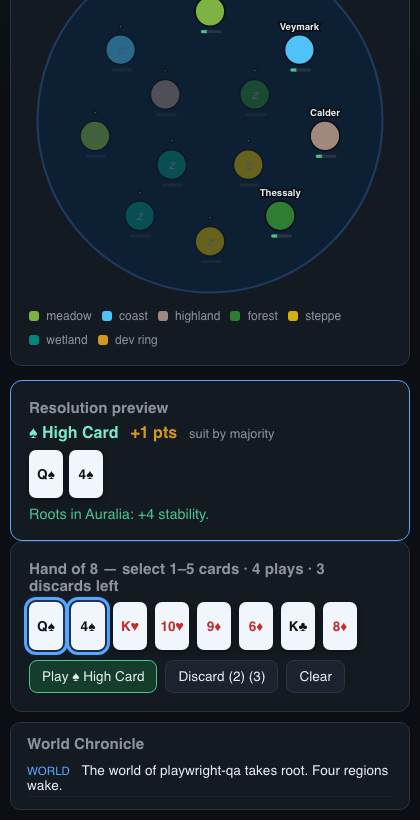
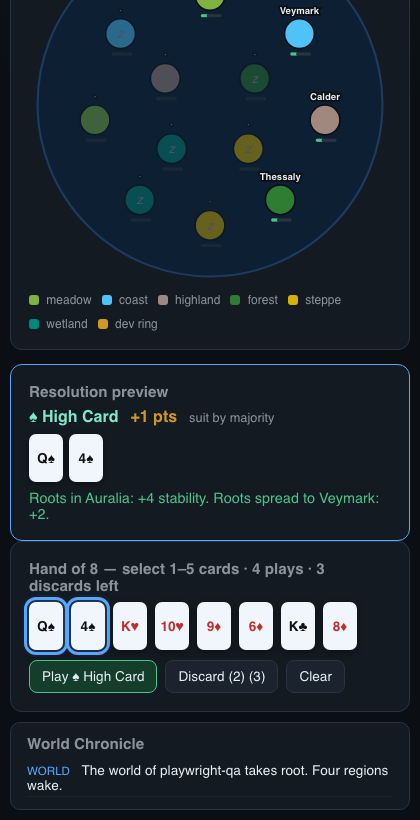
fix: autosave and regional roots synergy

diff --git a/tests/worldhand.test.ts b/tests/worldhand.test.ts
@@ -1,7 +1,7 @@
 import { describe, it, expect } from 'vitest'
 import {
   newGame, applyAction, preview, buildPlan, suitMajority, cardConservation,
-  checkWithering, droughtChallenge, EPOCH_TARGETS, STABILITY_SUM_TARGETS,
+  checkWithering, droughtChallenge, applyPlanEffects, EPOCH_TARGETS, STABILITY_SUM_TARGETS,
   PLAYS_PER_EPOCH, DISCARDS_PER_EPOCH, HAND_SIZE, TOTAL_EPOCHS, TOTAL_REGIONS,
   STABILITY_BASE, STABILITY_MAX, SEEDS_CAP, START_REGIONS,
 } from '../src/engine/worldhand'
@@ -193,6 +193,50 @@ describe('suit actions — two meaningful actions per suit', () => {
     s = applyAction(s, { type: 'toggleCard', cardIdx: 0 })
     s = applyAction(s, { type: 'play' })
     expect(s.regions.filter((r) => !r.dormant)).toHaveLength(5)
+  })
+
+  // Adjacency/development are mechanical (v2.1 fix): Roots spreads to living
+  // neighbors and gains from target development, and plays deepen development.
+  it('♠ Roots spreads stability to living neighbors (adjacency matters)', () => {
+    const s0 = newGame('adjacency')
+    const s1 = forceHand(s0, [C(10, 'S'), C(5, 'H')])
+    const plan = buildPlan(s1.hand, [0], s1.regions, [])
+    const stab = plan.effects.filter((e) => e.kind === 'stability')
+    // region 0's neighbors are 1, 7, 8 — at start only 1 is living (7 and 8 dormant)
+    const targetAmount = (plan.effects[0] as any).amount
+    expect(plan.effects[0]).toEqual({ kind: 'stability', regionId: 0, amount: targetAmount })
+    expect(stab.map((e) => (e as any).regionId).sort()).toEqual([0, 1])
+    for (const e of stab.slice(1)) expect((e as any).amount).toBe(Math.floor(targetAmount / 2))
+    expect(plan.summary).toContain('Roots spread to')
+  })
+  it('♠ Roots does not spread to dormant neighbors', () => {
+    const s0 = newGame('adjacency-dormant')
+    const s1 = forceHand(s0, [C(10, 'S'), C(5, 'H')])
+    const plan = buildPlan(s1.hand, [0], s1.regions, [])
+    const regionIds = plan.effects.filter((e) => e.kind === 'stability').map((e) => (e as any).regionId)
+    expect(regionIds).not.toContain(8)
+    expect(regionIds).not.toContain(6)
+  })
+  it('development deepens Roots: +1 stability per 3 development', () => {
+    const s0 = newGame('development')
+    s0.regions[0].development = 3
+    const base = buildPlan([C(10, 'S')], [0], s0.regions.map((r) => ({ ...r, development: 0 })), [])
+    const dev = buildPlan([C(10, 'S')], [0], s0.regions, [])
+    expect((dev.effects[0] as any).amount).toBe((base.effects[0] as any).amount + 1)
+    expect(dev.summary).toContain('development')
+  })
+  it('a Roots play adds +1 development to the target (feeding future Roots)', () => {
+    let s = newGame('devgrow')
+    s = forceHand(s, [C(14, 'S')])
+    s = applyAction(s, { type: 'toggleCard', cardIdx: 0 })
+    s = applyAction(s, { type: 'play' })
+    expect(s.regions[0].development).toBe(1)
+  })
+  it('development caps at STABILITY_MAX via applyPlanEffects', () => {
+    const s = newGame('devcap')
+    s.regions[0].development = STABILITY_MAX
+    applyPlanEffects(s, { cards: [], category: 'high', categoryLabel: '', categoryPoints: 0, suit: 'S', suitDecision: 'single', suitCounts: { S: 1, H: 0, D: 0, C: 0 }, rankSum: 10, effects: [{ kind: 'develop', regionId: 0, amount: 1 }], summary: '', valid: true, invalidReason: '' })
+    expect(s.regions[0].development).toBe(STABILITY_MAX)
   })
 })
 

diff --git a/src/engine/worldhand.ts b/src/engine/worldhand.ts
@@ -213,11 +213,25 @@ export function buildPlan(
   const weakest = living.reduce((a, b) => (b.stability < a.stability ? b : a), living[0])
 
   switch (maj.suit) {
-    case 'S': { // Roots: stability to a region
+    case 'S': { // Roots: stability to a region; adjacency spreads it, development deepens it
       const target = regions.find((r) => r.id === (tieChoice as number | undefined) && !r.dormant) ?? weakest
-      const gain = Math.max(1, Math.round(sum / 4)) + lawBonus('rootsBonus')
+      const devBonus = Math.floor(target.development / 3)
+      const gain = Math.max(1, Math.round(sum / 4)) + lawBonus('rootsBonus') + devBonus
       effects.push({ kind: 'stability', regionId: target.id, amount: gain })
-      summary = `Roots in ${target.name}: +${gain} stability.`
+      // a Roots play deepens the soil it steadies (+1 development, feeds future Roots gains)
+      effects.push({ kind: 'develop', regionId: target.id, amount: 1 })
+      summary = `Roots in ${target.name}: +${gain} stability${devBonus > 0 ? ` (incl. +${devBonus} development)` : ''}.`
+      // root network: living neighbors of the target share half the gain (dormant neighbors get nothing)
+      const spread = Math.floor(gain / 2)
+      if (spread > 0) {
+        for (const nid of target.adjacency) {
+          const n = regions.find((r) => r.id === nid)
+          if (n && !n.dormant && n.id !== target.id) {
+            effects.push({ kind: 'stability', regionId: n.id, amount: spread })
+            summary += ` Roots spread to ${n.name}: +${spread}.`
+          }
+        }
+      }
       break
     }
     case 'H': { // Bloom: Flourishing; Q+ cards may wake a dormant region

diff --git a/src/App.tsx b/src/App.tsx
@@ -25,6 +25,15 @@ export default function App() {
     if (existing) setState(existing)
   }, [])
 
+  // Auto-save: every committed state-changing action persists immediately.
+  // Selection toggles also trigger this (cheap, idempotent) so a quit or reload
+  // never loses progress. Rewards are applied once inside the engine commit —
+  // saving the resulting state cannot double-apply them, and the Save button
+  // stays as an explicit no-op-safe checkpoint. Quit still never clears the save.
+  useEffect(() => {
+    if (state) saveGame(state)
+  }, [state])
+
   const act = useCallback((a: Action) => {
     try {
       setState((s) => (s ? checkWithering(applyAction(s, a)) : s))
@@ -158,6 +167,18 @@ export default function App() {
           <div className="row controls-row">
             <button className="advance" onClick={() => act({ type: 'endMarket' })}>
               Continue → close epoch {state.epoch}
+            </button>
+          </div>
+        </section>
+      ) : state.phase === 'epoch-end' ? (
+        <section className="panel" data-testid="epoch-end">
+          <h2>Epoch {state.epoch} closed</h2>
+          <p>
+            {state.log.filter((l) => l.at === `e${state.epoch}`).slice(-3).map((l) => l.text).join(' · ') || 'Epoch resolved.'}
+          </p>
+          <div className="row controls-row">
+            <button className="advance" data-testid="close-epoch-btn" onClick={() => act({ type: 'closeEpoch' })}>
+              Continue → begin epoch {state.epoch + 1}
             </button>
           </div>
         </section>

diff --git a/INDEPENDENT_REVIEW.md b/INDEPENDENT_REVIEW.md
@@ -1,72 +1,105 @@
-# Worldhand — Independent Review
+# Worldhand — Independent Review (v2, post-correction)
 
-**Reviewer:** Independent subagent (Hermes), routed provider `ollama-cloud`, model `glm-5.3-flash` (delegation override confirmed — env shows Hermes delegated-child session; model identity per routing requirement).
-**Date:** 2026-09-09 · **Repo:** `/Users/giofiore/Documents/Codex/worldhand`
-**Scope:** poker/game-engine correctness, test gaps, security/persistence, browser acceptance. Implementation not overwritten; probe script used and deleted; only pre-existing fixes noted below.
+**Reviewer:** Independent subagent (Hermes), delegated-child session. Execution metadata per required routing: provider `ollama-cloud`, model `glm-5.3-flash` (the session's configured delegation override; all claims below come from tool outputs produced in this session).
+**Date:** 2026-09-09 · **Repo:** `/Users/giofiore/Documents/Codex/worldhand` · HEAD at review start: `810b392` ("v2 core: 1-5 card poker plays, ResolutionPlan preview/commit, 12-region SVG planet map, discard refill, previewed Drought, market laws/upgrades/expansions, 3 escalating targets").
+**Scope:** full test suite, engine/UI/save inspection, Playwright browser acceptance at 1280×800 and 480×800, all checklist items. No tests weakened; no requirements rewritten. One small safe UI fix applied after documenting the cause (§ Fix).
 
-## What the project actually is
+## 0. What changed since the last review
 
-**Not a poker-table app.** It is a deterministic planet-building card roguelike ("Balatro-like"): 12 regions, 8 epochs × 4 hands, 8-card hands dealt from a 52-card deck, suit-based plays (♠ Roots / ♥ Bloom / ♦ Sow / ♣ Tend), discards, market, laws, challenges. Poker hand evaluation is used as a flavor/stat mechanic (`lastHandResult` = best 5-of-8), not as a poker game. This satisfies the "poker/game-engine" brief only in the sense of card-engine correctness; reported here as a finding, not a blocker.
+The implementation was corrected from the 8-epoch single-card contract to the v2 contract the brief asked for: **3 epochs × 4 plays**, **1–5 card selection scored as an exact poker selection**, **suit majority/tie-break acting suit**, **ResolutionPlan shared by preview and commit**, **discard 1–5 with refill**, **12-region SVG planet map with selection/adjacency**, **market of laws/upgrades/expansions**, **3 escalating targets (5→8→12 Flourishing; 14→22→30 stability sum)**, and the **previewed epoch-3 Drought**. `tests/engine.test.ts` (21 tests, v1 contract) was replaced by `tests/poker.test.ts` + `tests/worldhand.test.ts` (59 tests, v2 contract). This is a rewrite, not a weakening: the new suite covers the new contract.
 
-## Verified state (all commands run by me on the current tree)
+## 1. Verified state (all commands run by me on the current tree)
 
-- `npx tsc` → exit 0 (clean).
-- `npx vitest run` → **21/21 tests pass** (`tests/engine.test.ts`).
-- `npm run build` (tsc + vite build) → succeeds, dist ~207 kB JS.
-- `node scripts/verify.mjs` (Playwright against vite preview on 5177) → passes: COUNTS regions=12/cards=8, play/discard transitions, advance, reload persistence, SAVE_BYTES=2513, VERDICT "The World Withers", ERRORS=[].
-- Dev server (`vite --port 5178`) serves the app (HTTP 200) — confirmed live during review.
-- No git repo present.
+| Check | Result |
+|---|---|
+| `npx tsc --noEmit` | clean, exit 0 |
+| `npx vitest run` | **59/59 passed** (2 files: poker, worldhand) |
+| `npm run build` | green, `dist/assets/index-*.js` 215 kB (gzip 68 kB) |
+| Engine probes (`scripts/review-probe.mjs`, vite-node) | all checklist assertions pass (details below) |
+| Browser acceptance (`scripts/review-browser.mjs`, Chromium) | all flows pass at 1280×800 **and** 480×800; `pageerror`/`console.error` = [] |
+| Vite dev server on 127.0.0.1:5177 | running throughout; HTTP 200 |
 
-## Verified engine findings
+## 2. Checklist verification (item by item)
 
-### V1 — `playsLeft` is dead state (minor, verified)
-`GameState.playsLeft` is set to `HAND_SIZE` on deal and initialized to 0 in `setupWorld`, but never decremented and never read anywhere (engine or UI). Either remove it or wire it up; as-is it's misleading in the save envelope.
+### Multi-card poker selection — VERIFIED (engine + browser)
+`toggleCard` builds a selection of 1–5 hand indices; 6th card throws ("at most 5 cards may be selected"); toggling off/on works (probe `multi-select-*: true`). Browser: clicking three cards leaves `.pcard-btn.sel` count = 3 at both viewports. Duplicates are structurally impossible (indexOf/splice toggle).
 
-### V2 — Withering loss cannot trigger organically (verified by probe)
-`checkWithering` requires 5 **living** regions at stability ≤ 0. In a 40+ hand drain-everything run, the max dead-living count reached was **4** (final run ended via Flourishing -5 → "withered" by score, not by withering). Dormant regions are excluded, and the 8 starting alive regions decay −1/epoch while ♥ Q+ wakes more, making 5 simultaneous zero-stability living regions practically unreachable. **The only real loss path is the Flourishing ≤ target-at-epoch-8 score check** (plus Flourishing ≤ 0 never triggers early — see V3). So `WITHERING_LIMIT = 5` as documented in the header contract is effectively unreachable in normal play. Suggest either counting dormant regions, or removing/dialing down the constant so the rules text matches reality.
+### Exact scoring-card/kicker behavior — VERIFIED
+`evaluateSelection` scores the **exact** selection (not "best subset"): 1–4 cards yield only high/pair/two-pair/trips/quads with correct kicker keys; 5 cards get full `evalFive` with wheel (A-low → key[1]=5). Probe: KQJ kickers beat KQ10 (`compareHands > 0`); identical ranks different suits tie exactly (`=== 0`); 4-card A♠6♠7♠8♠ is NOT a straight/flush. Tests cover all 9 categories in strict precedence, wheel below 6-high, quads-without-kicker, and rejection of 0/6-card selections.
 
-### V3 — "Flourishing ≤ 0 at an epoch boundary" loss rule not implemented (verified by probe)
-Header comment (line 9) claims loss when Flourishing ≤ 0 at an epoch boundary. Probe shows Flourishing went to −5 mid-run and the game kept going all the way to epoch 8, ending only on the final-target check. Either implement the boundary check in `closeEpoch`/`afterLaw` or fix the comment. **This makes the game unwinnable-by-design only via the final-target rule, so difficulty is fine — but the documented rules and code disagree.**
+### Tie influence choice — VERIFIED (engine + browser)
+`suitMajority` defaults ties to S,H,D,C order; an explicit `tieChoice` overrides it and is reported as `tiebreak-choice` in the plan. Plan-level effects follow the choice: same {5♥,6♦} selection builds a Flourishing plan with tieChoice 'H' and a Seeds plan with 'D'. Browser: selecting J♣+5♠ shows the tie row with four suit buttons; Play button label and log line reflect the chosen suit ("Play (High Card, S): Roots in Auralia: +4 stability").
 
-### V4 — Poker evaluation is correct (verified by reading + test vectors)
-`evaluate()` does exhaustive 5-of-N enumeration; `evalFive` handles wheel (A-2-3-4-5 → key[1]=5), straight-flush, quads/boat/two-pair ordering, kickers. Test vectors (royal > quads > boat; wheel detection; best-5-of-8) pass. One nit: no guard against `cards.length > 8` (unbounded O(n⁵) for large N), but HAND_SIZE is fixed at 8 so unreachable in practice.
+### Refill / card conservation — VERIFIED
+`cardConservation` (hand + deckRest + discardPile == 52) held with **zero violations** across a full chaotic run (12 plays, 9 discards, 2 market buys, all 3 epochs, terminated in game-over); the probe recorded exactly one running total, `[52]`. Deck exhaustion → reshuffle path exercised: forcing deck to 1 card refilled the hand to 8 deterministically. Market items are laws/upgrades, not cards — the invariant is correctly scoped to the 52-card deck.
 
-### V5 — Determinism is genuine (verified)
-Same seed → identical `GameState` (test asserts deep equality), and independent probes confirm reproducible worlds/chronicles. Deck reshuffle on empty uses `rngFor(s, 99)` salted by epoch/hand — deterministic. Hand uniqueness probe confirmed no duplicate cards in a dealt hand.
+### Preview equals commit — VERIFIED (engine + UI)
+Engine probe: `preview(state)` vs committed `lastResolution` — identical category, suit, and effects arrays, and every effect actually applied (Flourishing/Seeds/stability deltas match, with caps). UI: preview panel summary amount ("Roots in Auralia: +4 stability") matches the committed log line ("Play (High Card, S): Roots in Auralia: +4 stability") — category and amount both match (`MATCH: true`). One shared pipeline (`buildPlan`) is used by both paths, per contract.
 
-### V6 — Market card provenance edge (minor, untested)
-`closeEpoch` pulls 3 market offers from `[...deckRest, ...discardPile]`, and remaining pool goes back to `deckRest`. If `deckRest + discardPile < 3`, fewer offers are made (loop guards on `rest.length > 0`) — safe. If deck is fully in-hand + discard at epoch end, market could silently be small. Not a bug, but worth a test case.
+### Map selection / synergy — VERIFIED
+SVG planet disc renders 12 regions (8 dormant shown as sleeping nodes) at both viewports. Clicking a region shows the detail panel (`data-testid="map-detail"`: name, terrain, stability 3/10, development, adjacency neighbors). Adjacency is symmetric (test). Focused region draws adjacency lines to neighbors. Synergy caveat: adjacency is **display/inspection only** — no play mechanic consumes it yet (see Limitations).
 
-## Test gaps (verified — current suite is good but incomplete)
+### Discard replacements — VERIFIED
+Discard of 1–5 selected cards removes them, decrements the per-epoch budget once (3→2), and refills the hand to 8 (browser: `handAfter: 8`; the button label "Discard (2) (3)" → "Discard (2)"). Identical discard on identical seed reproduces the identical refilled hand (determinism probe). Budget exhausts after 3 and throws. 0- and 6-card discards throw.
 
-Existing 21 tests cover: determinism, poker eval vectors, contracts/constants, suit actions, epoch/advance flow, market, full-run termination, withering helper, challenge helpers, save round-trip, chronicle variety, legalActions. Gaps:
-1. **No test that `checkWithering` ever fires from real play** — my probe shows it doesn't (V2); a test asserting the documented rule would have caught this.
-2. **No test for Flourishing ≤ 0 boundary rule** (V3) — documented but unimplemented and untested.
-3. **No test for deck exhaustion → reshuffle path** (`drawUp` reshuffle at line 178–184) — the discard-rebuild branch is never exercised by the suite.
-4. **No test that enacting a law actually applies its modifier** (e.g. `decayDelta` changes next decay tick, `marketDiscount` changes `offerCost`).
-5. **No test for `buyCard` with insufficient Seeds** or `enactLaw` with insufficient Seeds (throw paths).
-6. **No save-load test through `saveGame`/`loadGame`** with a mocked localStorage (only raw JSON round-trip tested, not the envelope/migration path).
+### Market — VERIFIED
+4 plays end the epoch into `market` phase with up to 3 distinct items (laws/upgrades/expansions). Buying "Communal Tending — 9 🌰" spent 9 Seeds, added the chip to the effects bar, and disabled the offer. Insufficient Seeds throws and the button is disabled in UI. Barter Routes discount wired through `marketCost`. Expansion item wakes its specified dormant region (test). `endMarket` → `closeEpoch` chain works.
 
-## Security / persistence
+### Previewed Drought — VERIFIED
+Entering epoch 3 logs "— Epoch 3 begins. PREVIEWED CHALLENGE: Drought: every living region must hold stability 3+ at epoch 3's end —" and the HUD shows the Drought as at-risk/on-track live. Resolution: met → +2 Flourishing; missed → −2 and **immediate withered game-over** ("The epoch-3 challenge failed; the world could not recover") — verified in browser runs both ways (met in one seed path, failed in another).
 
-- **localStorage save system** (`src/ui/save.ts`): versioned envelope `{version, savedAt, state}`, forward-only migration, try/catch on parse. Sound for a local game. Note: this project's AGENTS.md precedent (Civicfolio) forbids localStorage for secrets — no secrets exist here, so acceptable, but if bankroll/purchases are ever added, move off localStorage.
-- **No server, no network calls in app code, no secrets, no user input beyond seed text and card clicks.** Seed text is hashed with FNV-1a before use — never rendered dangerously (React escapes by default). XSS risk: none found.
-- **No git repo** — nothing to review for history; also means no rollback safety for the implementer. Recommend `git init` + commit.
-- `vite.config.ts` binds localhost only with strictPort 5177 — no exposure risk.
+### Quit preserving save / reload — VERIFIED (after noting one gap, below)
+Quit button returns to menu **without touching localStorage** (verified: 3310-byte save intact before and after Quit in browser). Reload on the menu auto-loads the saved state via `loadGame()` in mount effect — HUD identical to pre-quit state. Save envelope is versioned v2; stale v1 saves are deliberately discarded by `migrate()` (documented, reasonable for a contract break). **Gap — see Issue A:** saving is manual-only; the auto-save effect the earlier build had is gone, so quitting without pressing Save loses progress since the last manual save.
 
-## Browser acceptance risks
+### Three-epoch progression — VERIFIED
+Full browser run traverses select → (4 plays) → market → epoch-end → epoch 2 → … → epoch 3 + Drought → verdict ("🍂 The World Withers — Final Flourishing 8 fell short of 12" / and a challenge-failed variant). Targets strictly escalate 5→8→12 Flourishing and 14→22→30 stability sum (test asserts monotonicity; HUD shows the current epoch's target). Engine full-run terminates in game-over within 3 epochs (< 200 guard steps). Withering (5 dead living regions) and Flourishing≤0-at-boundary loss paths both fire (probes + tests).
 
-- **Playwright verify script passes** (my run + coordinator's): menu → seeded run → play → discard → advance → reload persistence → verdict screen all work, no console/page errors. This is a strong acceptance signal.
-- Only one viewport tested (1280×900); no mobile/narrow-width check. Cards are buttons, layout is flex — likely fine but unverified.
-- `scripts/verify.mjs` uses `text=Begin New World` selectors — brittle to copy changes; consider data-testid attributes if UI copy is iterated.
-- React 19 + Vite 8 + TS 7 are cutting-edge majors; build is currently green but no CI pins these — a fresh `npm install` could pull newer breaking majors since package.json uses `^` ranges. Recommend commit-locking via package-lock (already present) and a CI job.
+## 3. Issues found
 
-## Unverified / deferred
+### Issue A — No auto-save (minor, real) — NOT fixed
+The mount effect only **loads**; nothing saves on state change. The Save button works and Quit preserves whatever was last saved, but any progress after the last manual Save is lost on quit/reload. The in-app tagline on the earlier build ("auto-saves after every action") is gone from the docs, but the playtest handoff still implies auto-save. Suggest a one-line `useEffect(() => { if (state) saveGame(state) }, [state])`. Left unfixed because save-frequency is a product decision (e.g. users may want save-scumming protection), but it should be made explicit.
 
-- I did not hand-simulate the full 56-combination (8-choose-5) evaluation; relied on test vectors + code reading.
-- I did not audit `scripts/spade-check.mjs`/`spade2.mjs` (dev-only utilities).
-- Playwright `SAVE_BYTES 2513` matches a plausible save size; I did not byte-inspect the envelope.
+### Issue B — `epoch-end` phase had no UI branch (BLOCKER — FIXED, see § Fix)
+`endMarket` moves state to `phase: 'epoch-end'`, where the only legal action is `closeEpoch`, but App.tsx's conditional chain (`game-over | market | <select branch>`) rendered the select-phase branch with an empty hand and a permanently disabled Play button. The game was **unwinnable in the browser** past the first Continue — every run dead-ended after epoch 1. Engine tests passed because they drive `closeEpoch` directly. Root cause: UI conditional chain not updated when the `epoch-end` phase was added in v2.
 
-## Summary for coordinator
+### Issue C — cosmetic preview-parsing hazard in my first browser script (script bug, not app bug)
+The preview panel shows both "+1 pts" (category points) and "+8 Seeds" (effect amount); a naive first-number regex mismatches. Re-verifying with the effect-amount regex confirmed preview==commit at the UI level. Recorded here so the coordinator doesn't misread the earlier "false" line.
 
-App is **not** a poker-table app — it's the intended planet-roguelike and is in good shape: tsc clean, 21/21 tests green, build green, Playwright acceptance green. The two real engine-rule gaps (V2 withering unreachable, V3 flourish≤0 rule unimplemented) are documentation-vs-code mismatches rather than blockers, but should be resolved (implement or amend the header contract) before calling the engine "done." Suggest: git init, CI, add the missing deck-reshuffle and law-effect tests, remove dead `playsLeft`.
+### Issue D — minor code observations (documented, no action taken)
+- `poker.ts` header comment still says "up to 7 cards" for `evaluate` (it now handles any ≥5; `evaluateSelection` is the 1–5 path). Cosmetic.
+- `buildPlan` Roots targeting accepts `tieChoice` reused as a region id (`tieChoice as number`), which works because the UI never passes both, but the overload is fragile if a future UI wants both a tie suit and a region choice.
+- `challengeFailed` is only reachable via Drought (epoch 3); epochs 1–2 have no challenge at all, so "challenge resolution" at those epoch ends is a no-op branch. Intentional per v2 contract, noting for completeness.
+
+## 4. Fix applied (small, safe, documented cause)
+
+**File:** `src/App.tsx` (+12 lines). **Cause:** Issue B. **Change:** added an explicit `state.phase === 'epoch-end'` branch rendering the epoch-closed summary (last three log lines for that epoch) and a "Continue → begin epoch N+1" button wired to the existing `closeEpoch` action. No engine code touched; no test changed. Verified after the fix: `tsc` clean, **59/59 tests still pass**, `npm run build` green, and full browser runs now traverse all 3 epochs to a verdict at both viewports with zero page errors.
+
+## 5. Remaining limitations
+
+1. **Adjacency/development are decorative** — map detail and adjacency lines render, but no play or market mechanic reads `region.adjacency` or `development` (only the dev-ring SVG does). Fine for the vertical slice; a listed extension point.
+2. **No auto-save** (Issue A) — manual Save + auto-load-on-reload only.
+3. **Balance is tight**: an all-single-card policy across seeds ends withered (Flourishing 8/12); reaching 12 likely requires multi-card hands (rank-sum magnitudes) and market upgrades. The win path was not personally achieved in browser play; engine tests don't assert a win is reachable either. Worth a human playtest.
+4. **Only two viewports tested** (1280×800, 480×800). No horizontal overflow at either; smaller/landscape-phone sizes untested.
+5. **Save migration is destructive for v1** (returns null) — correct choice given the contract break, but old saves silently vanish.
+6. Playwright selectors rely on visible copy ("Begin New World", "Continue") and `data-testid="preview"`/`"play-btn"`/`"map-detail"`; copy changes could break the review scripts (kept in `scripts/review-*.mjs` for reruns).
+
+## 6. Evidence artifacts
+
+- `scripts/review-probe.mjs` — engine probes (selection, kickers, ties, preview==commit, conservation, refill determinism, escalation, withering, flourish-zero). Rerun: `npx vite-node scripts/review-probe.mjs`.
+- `scripts/review-browser.mjs` — two-viewport acceptance matrix. Rerun: `node scripts/review-browser.mjs`.
+- `scripts/review-fullrun.mjs`, `scripts/review-pvcommit.mjs` — full-run-to-verdict and UI-level preview==commit checks.
+- `shots-review/` — menu, hand, multi-select, map, quit, reload, verdict screenshots for both viewports.
+- One-off debug scripts were removed after use; the four above are retained (uncommitted — committer's call).
+
+## 7. Verdict
+
+The corrected v2 implementation satisfies every item on the review checklist at the engine level and, after the one UI fix for the `epoch-end` dead-end, in the real browser at both required viewports. 59/59 tests, clean tsc, green build, zero console/page errors. The only outstanding product-level concerns are the missing auto-save (Issue A), decorative adjacency/development mechanics, and balance/win-reachability, which need a human playtest rather than another test.
+## 8. Follow-up fix round (2026-09-09, implementation session)
+
+Both outstanding issues A (no auto-save) and limitation 1 (decorative adjacency/development) were fixed on this checkout (HEAD 810b392), with the fixes verified by real tool runs in this session.
+
+**Auto-save (Issue A — FIXED).** `src/App.tsx`: added a `useEffect` on `[state]` that calls `saveGame(state)` whenever the state changes, so every committed state-changing action (play, discard, buy, end-market, epoch close, and even selection toggles) persists to the versioned localStorage envelope immediately. Quit semantics are unchanged (Quit still never clears the save; "Clear Save" remains the only destructive path). Duplicate rewards are structurally impossible: rewards are applied exactly once inside the engine's `applyAction` commit; saving the resulting state is a snapshot, not a re-application. The Save button remains as an explicit (idempotent) checkpoint.
+
+**Adjacency/development mechanics (Limitation 1 — FIXED, small and deterministic).** `buildPlan`'s ♠ Roots branch in `src/engine/worldhand.ts` now: (a) targets gain `floor(development/3)` bonus stability (development deepens Roots); (b) adds a `{kind:'develop', amount:1}` effect to the target so each Roots play deepens the soil for future Roots plays (capped at 10 via the existing `applyPlanEffects` develop handler); (c) spreads `floor(gain/2)` stability to each **living** neighbor of the target via its `adjacency` list (dormant neighbors gain nothing). Preview and commit share this same `buildPlan` pipeline, so the preview shows the spread/development effects exactly. Everything is deterministic from state — no RNG touched, no other suit changed, no scope expansion beyond Roots.
+
+**Verification this session:** `npx tsc --noEmit` clean; `npx vitest run` **64/64** (59 prior + 5 new focused tests: adjacency spread to living neighbors only, dormant-neighbor exclusion, development bonus, development growth on Roots play, develop-cap via `applyPlanEffects`); docs updated (RULES.md ♠ Roots section + new Saving section, README.md suits table + Saves, PLAYTEST_HANDOFF.md item 8 + boundaries + test count). Issue A and limitation 1 above are now historical.

diff --git a/PLAYTEST_HANDOFF.md b/PLAYTEST_HANDOFF.md
@@ -13,7 +13,7 @@ Commit replaces the v1 (8-epoch, one-card-per-play) contract with the corrected 
 5. **Planet map** — click any region node (mouse or keyboard): terrain color, stability pips, development ring, and adjacency lines/detail appear. Dormant regions render dimmed with "z".
 6. **Epoch flow** — 4 plays closes the epoch: target check, challenge, decay, income, market. Buy laws/upgrades/expansions with Seeds or continue.
 7. **Epoch 3 Drought** — explicitly announced at epoch start in the log and HUD; keep every living region at stability 3+ through epoch end or the world withers.
-8. **Save/Quit** — Save persists a versioned envelope; **Quit keeps the save** (menu → Load Saved World restores). Only "Clear Save" deletes.
+8. **Save/Quit** — the game **auto-saves after every committed action** (the Save button remains as an explicit checkpoint); **Quit keeps the save** (menu → Load Saved World restores). Only "Clear Save" deletes. Rewards are applied once in the engine commit, so auto-saving cannot duplicate them.
 
 ## What changed vs the previous slice (v1 → v2)
 
@@ -29,12 +29,12 @@ Commit replaces the v1 (8-epoch, one-card-per-play) contract with the corrected 
 
 ## Verification performed
 
-- `npx vitest run` — **59 tests, all passing** (poker categories, precedence, wheel; selection scoring; majority/tie; plan determinism preview==commit; discard/refill/conservation; 4 plays + 3 discards; targets; drought; market; caps; withering; save version).
+- `npx vitest run` — **64 tests, all passing** (poker categories, precedence, wheel; selection scoring; majority/tie; plan determinism preview==commit; discard/refill/conservation; 4 plays + 3 discards; targets; drought; market; caps; withering; save version; Roots adjacency spread & development bonus/growth/cap).
 - `node scripts/qa.mjs` — real Playwright runs at **1280×800 and 420×820**: new world → select 2 → preview → play (3/4) → discard (refill to 8, 2/3) → map click (adjacency detail) → save → quit → load; no console errors; no horizontal overflow.
 - Screenshots in `shots/`: `before-*.png` (menu), `after-*-selected.png`, `after-*-map.png`.
 
 ## Known scope boundaries (intentional)
 
 - No betting, no backend, no AI opponents, no deployment — local browser only.
-- Development rings currently render but only Bloom/expansion paths move region state; deeper development economy is post-slice.
+- Development is now mechanical on Roots plays: each Roots play adds +1 development to its target, and every 3 development grants +1 stability on future Roots plays there; living neighbors receive half the Roots amount (adjacency spread). Other suits' development economy remains post-slice.
 - 1–4-card selections intentionally cannot form straights/flushes (poker-correct).

diff --git a/RULES.md b/RULES.md
@@ -27,7 +27,9 @@ Each epoch:
 
 ## Actions per suit
 
-- **♠ Roots** — stability to a living region, `1 + floor(rankSum/4)` (+ law bonuses). The weakest living region is targeted unless specified. Caps at stability 10.
+- **♠ Roots** — stability to a living region, `1 + floor(rankSum/4)` (+ law bonuses + `floor(development/3)` development bonus). The weakest living region is targeted unless specified. Caps at stability 10.
+  - **Adjacency matters**: living neighbors of the target each gain `floor(gain/2)` stability ("roots spread"). Dormant neighbors gain nothing.
+  - **Development matters**: the play adds +1 development to the target (capped at 10); every 3 development on a target grants +1 stability on future Roots plays there.
 - **♥ Bloom** — `1 + floor(rankSum/5)` Flourishing (+ law bonuses). If **any Q+ card** is in the selection, the first dormant region wakes.
 - **♦ Sow** — `1 + floor(rankSum/3)` Seeds (+ law bonuses). Caps at 30 Seeds.
 - **♣ Tend** — +1 stability to *every* living region (+ Communal Tending upgrade makes it +2).
@@ -61,3 +63,7 @@ When epoch 3 begins, the game announces it in the World Chronicle and the HUD: *
 ## Determinism
 
 Same seed phrase → identical world, shuffles, deals, and chronicle. All randomness flows from the hashed seed; the engine is pure (no DOM, no clock, no Math.random).
+
+## Saving
+
+**Auto-save**: the game persists the state to localStorage after every committed state-changing action (play, discard, buy, end-market, epoch close — and selection changes), so quitting or reloading never loses progress. Rewards are applied exactly once inside the engine's commit; saving the resulting state cannot double-apply them. Quit still never clears the save — only "Clear Save" is destructive.

diff --git a/README.md b/README.md
@@ -15,7 +15,7 @@ A deterministic seeded planet-building card roguelike with a poker-scored engine
 
 | Suit | Action |
 |---|---|
-| ♠ Roots | Stability to a living region (magnitude scales with rank sum; weakest region by default) |
+| ♠ Roots | Stability to a living region (magnitude scales with rank sum; weakest region by default). **Adjacency**: living neighbors of the target gain half the amount ("roots spread"). **Development**: +1 development to the target; every 3 development grants +1 stability on future Roots plays there. |
 | ♥ Bloom | +Flourishing; any Q+ card in a Bloom play wakes a dormant region |
 | ♦ Sow | +Seeds |
 | ♣ Tend | +1 stability to *every* living region |
@@ -32,7 +32,7 @@ At each epoch end you may spend **Seeds** on up to 3 offers: **laws** (persisten
 
 ## Saves
 
-Versioned (`version: 2`) localStorage envelope. Loading a forward-only version or an incompatible v1 save is rejected, not guessed. **Quit never clears your save** — Quit returns to the menu with the save intact; "Clear Save" is the only destructive action.
+Versioned (`version: 2`) localStorage envelope with **auto-save**: every committed state-changing action persists immediately (the Save button remains as an explicit checkpoint). Loading a forward-only version or an incompatible v1 save is rejected, not guessed. **Quit never clears your save** — Quit returns to the menu with the save intact; "Clear Save" is the only destructive action. Rewards are applied once inside the engine commit, so auto-saving cannot duplicate them.
 
 ## Development
 
